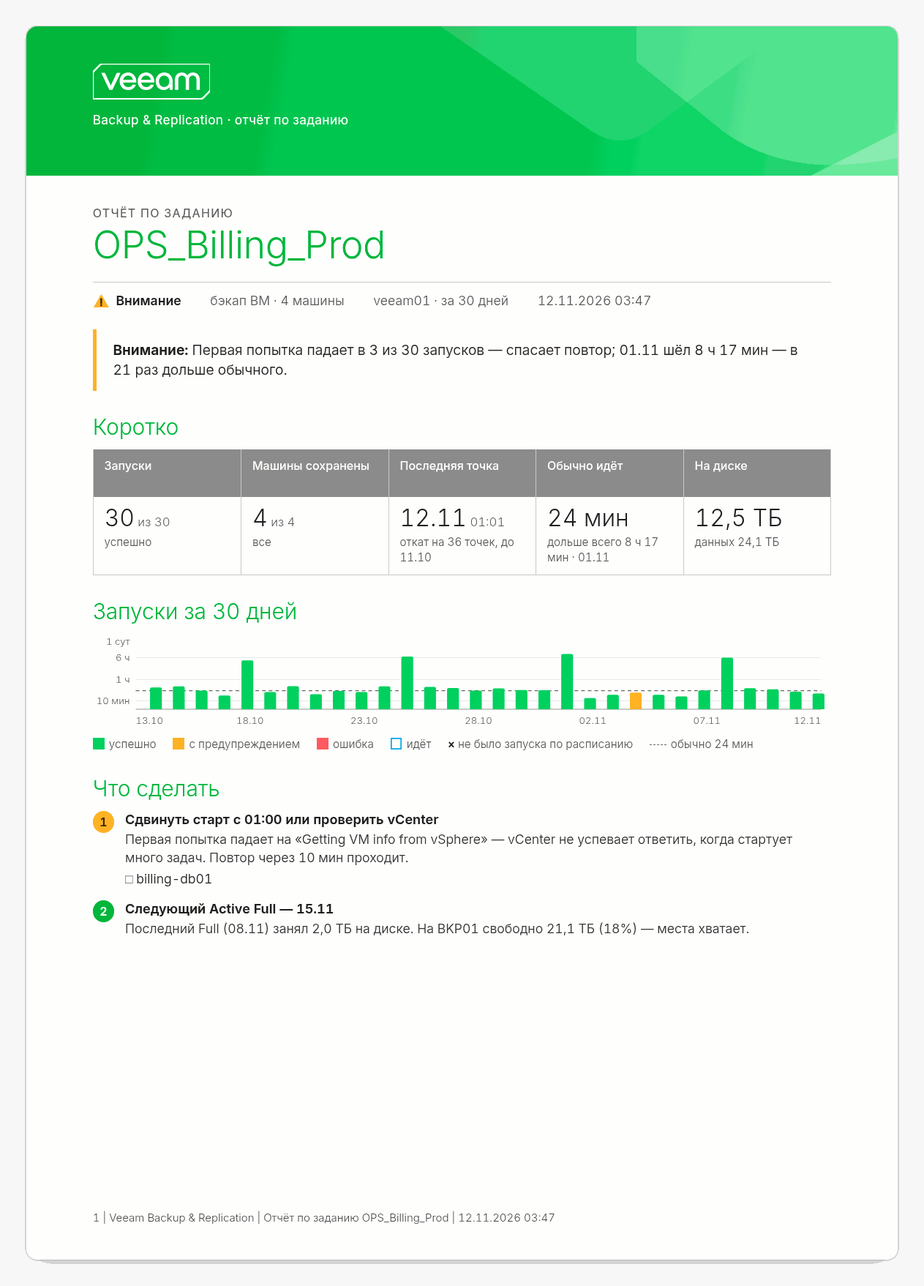
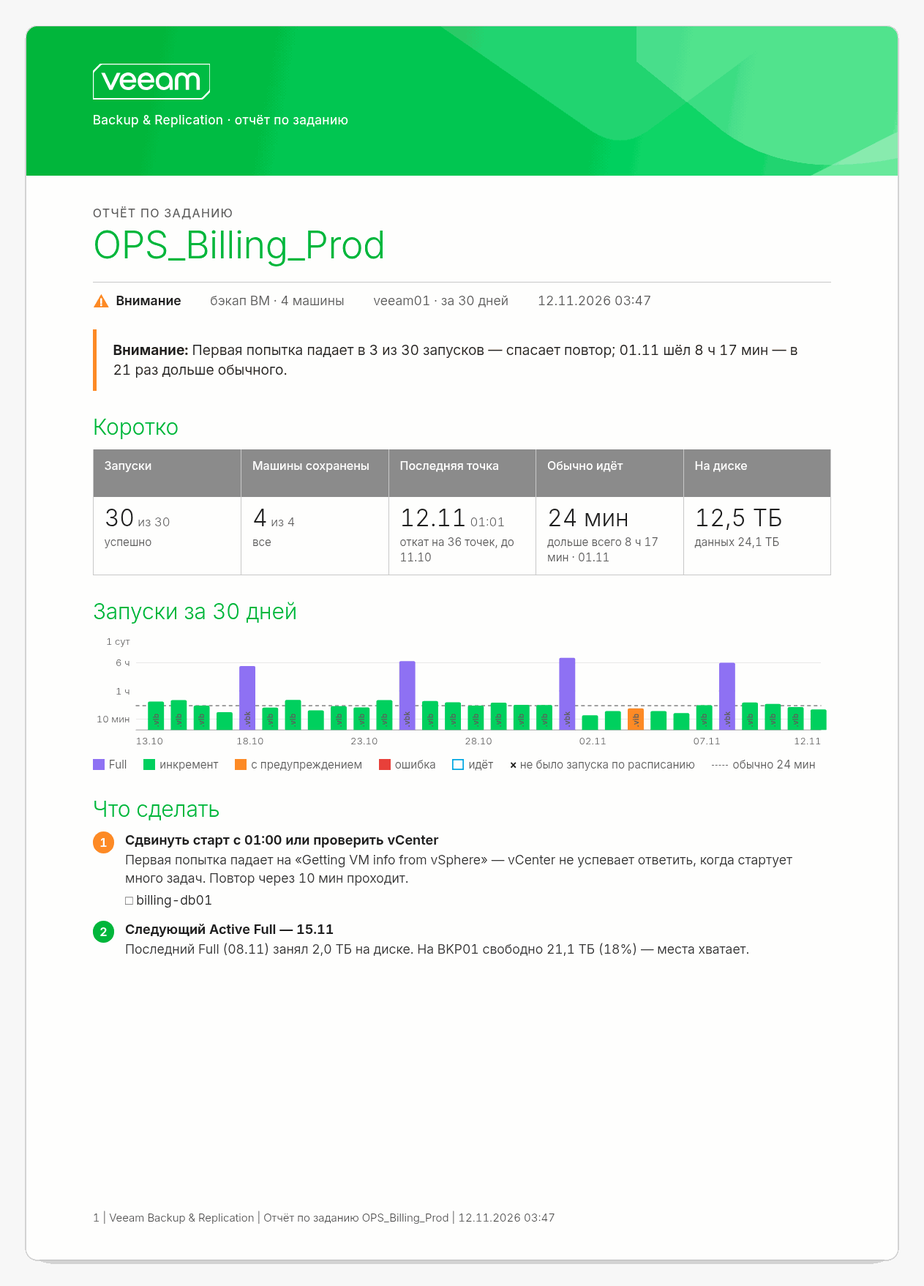
Colour the Job report as the other two, a Full violet and an increment green
The Job report takes the Guide's palette the Points report and the
Repository report already have: attention in its orange, error and
critical in its red, the unknown in a tint of its dark green. A failed
session's head is a quieter red, so that a page of them does not shout.

A good run on «Запуски за 30 дней» and in each machine's history is drawn
as the Guide draws its file: a Full violet with .vbk up the bar, an
increment green with .vib. A run is told a Full by the restore points it
wrote, or, older than retention reaches, by the Full its settings owe
that day to its first run; where neither tells, it stays plain green.

diff --git a/src/estate/job-report-page.ts b/src/estate/job-report-page.ts
@@ -37,14 +37,14 @@ const ERROR_ROWS = 3;
 const CHAIN_ROWS = 6;
 
 /** One family: Veeam's green, and an amber and a coral as strong as it is. */
-const COLOUR = { success: '#00d15f', warning: '#ffb224', failed: '#ff5a5f', none: '#00a7e2', empty: '#e3edeb' } as const;
+const COLOUR = { success: '#00d15f', warning: '#fe8a25', failed: '#e8403a', none: '#00a7e2', empty: '#e3edeb' } as const;
 
 /** A state is its mark and its word, never the colour alone. */
 const MARK: Record<Status, string> = {
   crit: `<svg class="js-mk" viewBox="0 0 16 16"><circle cx="8" cy="8" r="8" fill="${COLOUR.failed}"/><path d="M5.2 5.2l5.6 5.6M10.8 5.2l-5.6 5.6" stroke="#fff" stroke-width="1.8" stroke-linecap="round"/></svg>`,
-  warn: `<svg class="js-mk" viewBox="0 0 16 16"><path d="M8 1.2 15.4 14.2H.6z" fill="${COLOUR.warning}"/><path d="M8 6v4" stroke="#3d2a00" stroke-width="1.7" stroke-linecap="round"/><circle cx="8" cy="12" r="1" fill="#3d2a00"/></svg>`,
-  ok: `<svg class="js-mk" viewBox="0 0 16 16"><circle cx="8" cy="8" r="8" fill="${COLOUR.success}"/><path d="M4.6 8.3l2.3 2.3 4.5-4.9" stroke="#010d35" stroke-width="1.8" fill="none" stroke-linecap="round" stroke-linejoin="round"/></svg>`,
-  unknown: '<svg class="js-mk" viewBox="0 0 16 16"><circle cx="8" cy="8" r="8" fill="#adacaf"/><path d="M5.4 8h5.2" stroke="#fff" stroke-width="1.8" stroke-linecap="round"/></svg>',
+  warn: `<svg class="js-mk" viewBox="0 0 16 16"><path d="M8 1.2 15.4 14.2H.6z" fill="${COLOUR.warning}"/><path d="M8 6v4" stroke="#ffffff" stroke-width="1.7" stroke-linecap="round"/><circle cx="8" cy="12" r="1" fill="#ffffff"/></svg>`,
+  ok: `<svg class="js-mk" viewBox="0 0 16 16"><circle cx="8" cy="8" r="8" fill="${COLOUR.success}"/><path d="M4.6 8.3l2.3 2.3 4.5-4.9" stroke="#fff" stroke-width="1.8" fill="none" stroke-linecap="round" stroke-linejoin="round"/></svg>`,
+  unknown: '<svg class="js-mk" viewBox="0 0 16 16"><circle cx="8" cy="8" r="8" fill="#639c90"/><path d="M5.4 8h5.2" stroke="#fff" stroke-width="1.8" stroke-linecap="round"/></svg>',
 };
 /** How a run ended, as the panel says its last one. */
 const RESULT: Record<Outcome, [Status, string]> = { success: ['ok', 'Успешно'], warning: ['warn', 'С предупреждением'], failed: ['crit', 'Ошибка'], none: ['unknown', 'Идёт'] };
@@ -73,7 +73,11 @@ const summary = (report: JobReport, timezone: string, stamp: string): string => 
   ${numbers(report, timezone, isReplica(report))}
   <h2 class="g-h2">Запуски за ${report.days} дней</h2>
   ${chart(report, timezone)}
-  <div class="js-legend"><span><i style="background:${COLOUR.success}"></i>успешно</span><span><i style="background:${COLOUR.warning}"></i>с предупреждением</span><span><i style="background:${COLOUR.failed}"></i>ошибка</span><span><i class="run"></i>идёт</span><span><b>×</b> не было запуска по расписанию</span>${report.usual ? `<span><i class="dash"></i>обычно ${spanOf(report.usual)}</span>` : ''}</div>
+  <div class="js-legend">${
+    report.runs.some((run) => run.full !== undefined)
+      ? `<span><i style="background:${GUIDE.full}"></i>Full</span><span><i style="background:${COLOUR.success}"></i>инкремент</span>`
+      : `<span><i style="background:${COLOUR.success}"></i>успешно</span>`
+  }<span><i style="background:${COLOUR.warning}"></i>с предупреждением</span><span><i style="background:${COLOUR.failed}"></i>ошибка</span><span><i class="run"></i>идёт</span><span><b>×</b> не было запуска по расписанию</span>${report.usual ? `<span><i class="dash"></i>обычно ${spanOf(report.usual)}</span>` : ''}</div>
   <h2 class="g-h2">Что сделать</h2>
   ${stepsTable(report)}
   ${guideFoot(footOf(report, stamp))}
@@ -172,7 +176,7 @@ const numbers = (report: JobReport, timezone: string, replica: boolean): string 
  */
 const chart = (report: JobReport, timezone: string): string => {
   const W = 1000;
-  const H = 132;
+  const H = 160;
   const left = 58;
   const right = 14;
   const top = 10;
@@ -186,7 +190,7 @@ const chart = (report: JobReport, timezone: string): string => {
   const hi = Math.log(ceiling);
   const y = (minutes: number) => top + (H - top - bottom) * (1 - (Math.log(Math.max(5, Math.min(ceiling, minutes))) - lo) / (hi - lo));
   const base = H - bottom;
-  const barWidth = Math.max(4, Math.min(16, ((W - left - right) / report.days) * 0.6));
+  const barWidth = Math.max(4, Math.min(22, ((W - left - right) / report.days) * 0.7));
   const lines = ticks
     .filter(([minutes]) => minutes <= ceiling)
     .map(([minutes, label]) => `<line x1="${left}" x2="${W - right}" y1="${y(minutes).toFixed(1)}" y2="${y(minutes).toFixed(1)}" class="g"/><text x="${left - 8}" y="${(y(minutes) + 4.5).toFixed(1)}" text-anchor="end">${label}</text>`)
@@ -203,7 +207,16 @@ const chart = (report: JobReport, timezone: string): string => {
     const X = x(run.start) - barWidth / 2;
     const Y = base - height;
     const path = `M${X.toFixed(1)} ${base} V${(Y + r).toFixed(1)} Q${X.toFixed(1)} ${Y.toFixed(1)} ${(X + r).toFixed(1)} ${Y.toFixed(1)} H${(X + barWidth - r).toFixed(1)} Q${(X + barWidth).toFixed(1)} ${Y.toFixed(1)} ${(X + barWidth).toFixed(1)} ${(Y + r).toFixed(1)} V${base} Z`;
-    return `<path d="${path}" ${going ? `fill="#fff" stroke="${COLOUR.none}" stroke-width="1.6"` : `fill="${COLOUR[run.result] ?? COLOUR.none}"`}/>`;
+    // A good run in the colour the Guide draws its file in: a Full violet (.vbk), an increment green (.vib). A warning or a failure says so instead.
+    const fill = run.result === 'success' && run.full ? GUIDE.full : COLOUR[run.result] ?? COLOUR.none;
+    const shape = `<path d="${path}" ${going ? `fill="#fff" stroke="${COLOUR.none}" stroke-width="1.6"` : `fill="${fill}"`}/>`;
+    // Its file written up the bar, .vbk or .vib, as the Guide writes it in the box, where the bar is tall enough to hold it.
+    const word = run.full === undefined ? '' : run.full ? '.vbk' : '.vib';
+    const fits = word && !going && height >= word.length * 5.8 + 6 && barWidth >= 11;
+    const ink = fill === COLOUR.success ? '#003d30' : '#fff';
+    return fits
+      ? `${shape}<text class="k" transform="translate(${(X + barWidth / 2 + 3.6).toFixed(1)} ${(base - 4).toFixed(1)}) rotate(-90)" fill="${ink}">${word}</text>`
+      : shape;
   };
   const missed = report.missed.map((at) => `<text x="${x(at).toFixed(1)}" y="${base - 5}" text-anchor="middle" class="m">×</text>`).join('');
   const empty = report.runs.length ? '' : `<text x="${W / 2}" y="${H / 2}" text-anchor="middle">За ${report.days} дней запусков не было</text>`;
@@ -260,7 +273,7 @@ const machinesTable = (report: JobReport, timezone: string): string => {
   const rows = shown
     .map(
       (machine) =>
-        `<tr${machine.error ? ' class="js-hasx"' : ''}><td><div class="js-name">${machineMark(machine)}<div><span>${breakable(shortName(machine.name))}</span></div></div></td><td><div class="js-hist${machine.history.length > DENSE_RUNS ? ' dense' : ''}">${machine.history.map((outcome) => `<i style="background:${outcome === 'none' ? COLOUR.empty : COLOUR[outcome]}"></i>`).join('')}</div></td>${machine.unread ? UNREAD : saves(machine, timezone)}</tr>${
+        `<tr${machine.error ? ' class="js-hasx"' : ''}><td><div class="js-name">${machineMark(machine)}<div><span>${breakable(shortName(machine.name))}</span></div></div></td><td><div class="js-hist${machine.history.length > DENSE_RUNS ? ' dense' : ''}">${machine.history.map((outcome, column) => `<i style="background:${outcome === 'none' ? COLOUR.empty : outcome === 'success' && report.history.fulls?.[column] ? GUIDE.full : COLOUR[outcome]}"></i>`).join('')}</div></td>${machine.unread ? UNREAD : saves(machine, timezone)}</tr>${
           // Under the machine, across the row: the name's column is too narrow to hold what Veeam said.
           machine.error ? `<tr class="js-x"><td colspan="4"><div class="js-err">${esc(machine.error)}${machine.errorTone === 'healed' ? ' · повтор помог' : ''}</div></td></tr>` : ''
         }`,
@@ -327,14 +340,14 @@ const STYLE = `
 .nw { white-space: nowrap; } .r { text-align: right; }
 .js-mk { width: 3.6mm; height: 3.6mm; flex: none; vertical-align: -0.6mm; }
 .g-state .js-mk { width: 4mm; height: 4mm; }
-.js-bad { color: #e5484d; } .js-dim { color: ${GUIDE.muted}; }
+.js-bad { color: #e8403a; } .js-dim { color: ${GUIDE.muted}; }
 .js-partial { color: ${GUIDE.muted}; font-size: 7.8pt; margin-top: 1.4mm; padding-left: 4.9mm; }
 
 .js-tiles { display: grid; grid-template-columns: repeat(5, minmax(0, 1fr)); border: 0.25mm solid ${GUIDE.rule}; border-top: none; }
 .js-tile { min-width: 0; border-left: 0.25mm solid ${GUIDE.rule}; display: flex; flex-direction: column; } .js-tile:first-child { border-left: none; }
 .js-tk { background: ${GUIDE.head}; color: #fff; font-weight: 500; font-size: 8pt; padding: 1.9mm 2.6mm; min-height: 11.5mm; box-sizing: border-box; }
 .js-tv { font-size: 16pt; font-weight: 300; line-height: 1.15; white-space: nowrap; padding: 2mm 2.6mm 0; } .js-tv small { font-size: 8.4pt; color: ${GUIDE.muted}; }
-.js-tile.bad .js-tv { color: #e5484d; }
+.js-tile.bad .js-tv { color: #e8403a; }
 .js-td { font-size: 7.6pt; color: ${GUIDE.muted}; padding: 0.4mm 2.6mm 2.2mm; }
 
 .js-chart { width: 100%; height: auto; display: block; font-family: 'Inter Variable', sans-serif; }
@@ -342,6 +355,7 @@ const STYLE = `
 .js-chart .g { stroke: #e6e6e6; stroke-width: 1; } .js-chart .a { stroke: #9a9a9a; stroke-width: 1; }
 .js-chart .u { stroke: #6b6b6b; stroke-width: 1.2; stroke-dasharray: 5 4; }
 .js-chart .m { font-size: 16px; font-weight: 650; fill: ${GUIDE.ink}; }
+.js-chart .k { font-size: 10px; font-weight: 600; letter-spacing: 0.02em; }
 .js-legend { display: flex; flex-wrap: wrap; gap: 0.6mm 4mm; font-size: 7.6pt; color: ${GUIDE.muted}; margin-top: 1.2mm; }
 .js-legend span { white-space: nowrap; }
 .js-legend i { display: inline-block; width: 2.8mm; height: 2.8mm; margin-right: 1.1mm; vertical-align: -0.4mm; }
@@ -352,7 +366,7 @@ const STYLE = `
 .js-steps { display: flex; flex-direction: column; gap: 2.6mm; }
 .js-step { display: flex; gap: 2.6mm; break-inside: avoid; }
 .js-step .n { flex: none; width: 5.2mm; height: 5.2mm; border-radius: 50%; background: ${GUIDE.green}; color: #fff; font-weight: 650; font-size: 8pt; display: flex; align-items: center; justify-content: center; margin-top: 0.2mm; }
-.js-step.crit .n { background: ${COLOUR.failed}; } .js-step.warn .n { background: ${COLOUR.warning}; color: #3d2a00; }
+.js-step.crit .n { background: ${COLOUR.failed}; } .js-step.warn .n { background: ${COLOUR.warning}; color: #ffffff; }
 .js-step b { font-weight: 650; display: block; font-size: 9pt; }
 .js-step p { margin: 0.4mm 0 0; color: #333; }
 .js-tags { display: flex; flex-wrap: wrap; gap: 1mm 3mm; margin-top: 0.8mm; } .js-tags span::before { content: '□ '; color: ${GUIDE.muted}; }

diff --git a/src/estate/job-report.ts b/src/estate/job-report.ts
@@ -3,7 +3,7 @@ import { durationOf, fromServerClock, instantOf, Job } from '../veeam/estate';
 import { linesOf, saidOf } from '../veeam/session-text';
 import { VeeamBackupFile, VeeamJob, VeeamRepositoryState, VeeamTaskSession } from '../veeam/types';
 import { PendingEvidence } from './evidence';
-import { describeFulls, FullSchedule, fullSchedulesOf, nextFullDay } from './full-schedule';
+import { describeFulls, FullSchedule, fullSchedulesOf, isFullDay, nextFullDay } from './full-schedule';
 import { JobHistory } from './job-reads';
 import { JobJudgement, Severity, Trouble, Verdict, verdictWords } from './job-standing';
 import { RunSize, runSizesOf, sizesOf } from './points-sizes';
@@ -74,6 +74,12 @@ export interface JobRun {
   /** Machines saved, of those the run went through; undefined when the tasks were not read. */
   saved?: number;
   machines?: number;
+  /**
+   * Whether it wrote a Full: as its retained points say, or, for a run older
+   * than they reach, as the settings owe one that day to its first run.
+   * Absent where neither tells.
+   */
+  full?: boolean;
 }
 
 /** One machine over the period. */
@@ -169,7 +175,14 @@ export interface JobReport {
   /** Scheduled starts no run came for. */
   missed: number[];
   /** The runs the machines' history is about: their first and last start, and how many. */
-  history: { from?: number; to?: number; runs: number; byDay: boolean };
+  history: {
+    from?: number;
+    to?: number;
+    runs: number;
+    byDay: boolean;
+    /** A column a Full: a run, or a day with a run, that wrote one; absent where it is not known. As the machines' history has its columns. */
+    fulls?: Array<boolean | undefined>;
+  };
   machines: ReportMachine[];
   errors: ErrorGroup[];
   /** Newest first. */
@@ -401,6 +414,21 @@ export const jobReportOf = (reading: JobReading, timezone: string): JobReport =>
   const nextFull = fullSchedules?.length ? nextFullDay(fullSchedules, at, timezone) : undefined;
   const lastFull = sizesOf(reading.files, retained)?.full;
 
+  // A Full or an increment, for the month's chart: the retained points written while it ran, else the Full the settings owe its day — once, to the day's first run.
+  const firstOfDay = new Set<number>();
+  const daysSeen = new Set<number>();
+  for (const run of runs) {
+    const day = dayIn(run.start, timezone);
+    if (!daysSeen.has(day)) firstOfDay.add(run.start);
+    daysSeen.add(day);
+  }
+  const fullOf = (start: number, end: number | undefined): boolean | undefined => {
+    const written = retained.filter((point) => point.full !== undefined && point.at >= start - MINUTE && point.at <= (end ?? at) + MINUTE);
+    if (written.length) return written.some((point) => point.full);
+    if (!fullSchedules?.length) return undefined;
+    return firstOfDay.has(start) && isFullDay(fullSchedules, dayIn(start, timezone));
+  };
+
   const repositoryName = reading.repository?.name;
   const repository = reading.repository && repositoryName
     ? {
@@ -435,9 +463,19 @@ export const jobReportOf = (reading: JobReading, timezone: string): JobReport =>
       pieces,
       minutes,
       ...(read && done.size ? { saved: [...done.values()].filter((task) => saved(outcomeOf(task.result?.result))).length, machines: done.size } : {}),
+      ...((full) => (full === undefined ? {} : { full }))(fullOf(start, end)),
     })),
     missed,
-    history: { from: withTasks[0]?.start, to: withTasks.at(-1)?.start, runs: withTasks.length, byDay },
+    history: {
+      from: withTasks[0]?.start,
+      to: withTasks.at(-1)?.start,
+      runs: withTasks.length,
+      byDay,
+      fulls: columns.map((group) => {
+        const kinds = group.map((run) => fullOf(run.start, run.end));
+        return kinds.some((kind) => kind === true) ? true : kinds.every((kind) => kind === undefined) ? undefined : false;
+      }),
+    },
     machines,
     errors,
     chain,

diff --git a/src/estate/points-report-page.ts b/src/estate/points-report-page.ts
@@ -46,7 +46,7 @@ export const chunks = <T>(items: T[], size: number): T[][] =>
 const MONTHS = ['январь', 'февраль', 'март', 'апрель', 'май', 'июнь', 'июль', 'август', 'сентябрь', 'октябрь', 'ноябрь', 'декабрь'];
 
 /** The page's colours, as drawn. */
-const DOT = { crit: '#FF5A5F', warn: '#FFB224', ok: '#00D15F', unknown: '#ADACAF' } as const;
+const DOT = { crit: '#E8403A', warn: '#FE8A25', ok: '#00D15F', unknown: '#639C90' } as const;
 
 /** A number drawn smaller the longer it is: «сб 24.10, 22:00» wrapped at the size of «2,4 ТБ». */
 const valueSize = (value: string): string => (value.length <= 11 ? '' : value.length <= 15 ? ' m' : ' s');
@@ -235,7 +235,7 @@ const STYLE = `
 .job { margin: 0; color: ${GUIDE.green}; font-weight: 300; font-size: 26pt; line-height: 1.12; letter-spacing: -0.01em; overflow-wrap: anywhere; }
 .dot { width: 3.4mm; height: 3.4mm; border-radius: 50%; display: inline-block; flex: none; }
 .verdict { font-weight: 600; }
-.bad { color: #e5484d; }
+.bad { color: #e8403a; }
 .meta { color: ${GUIDE.muted}; }
 .meta.small { font-size: 8pt; margin-top: 1.4mm; }
 
@@ -257,7 +257,7 @@ h2 { margin: 0; }
 .row { display: grid; grid-template-columns: 42mm repeat(${CALENDAR_DAYS}, minmax(0, 1fr)) 9mm; gap: 0.45mm; align-items: center; break-inside: avoid; }
 .mon { font-size: 7.4pt; font-weight: 600; color: ${GUIDE.ink}; border-bottom: 0.25mm solid ${GUIDE.rule}; padding-bottom: 0.6mm; white-space: nowrap; overflow: hidden; }
 .hd { font-size: 6.4pt; color: ${GUIDE.muted}; text-align: center; line-height: 1.3; }
-.hd.we { color: #9a9a9a; } .hd.fd { color: ${GUIDE.ink}; font-weight: 650; } .hd.miss { color: #e5484d; font-weight: 650; }
+.hd.we { color: #9a9a9a; } .hd.fd { color: ${GUIDE.ink}; font-weight: 650; } .hd.miss { color: #e8403a; font-weight: 650; }
 .nm { font-size: 7.8pt; white-space: nowrap; overflow: hidden; text-overflow: ellipsis; padding-right: 1mm; }
 .cnt { font-size: 8pt; font-weight: 650; text-align: right; }
 .none { color: ${GUIDE.muted}; padding: 1mm 0; }
@@ -273,19 +273,19 @@ h2 { margin: 0; }
 .more { font-size: 8pt; color: ${GUIDE.muted}; }
 .err { margin: 0 0 2mm; break-inside: avoid; }
 .err b { font-weight: 650; }
-.errt { display: block; color: #c23a40; margin-top: 0.4mm; overflow-wrap: anywhere; }
+.errt { display: block; color: #e8403a; margin-top: 0.4mm; overflow-wrap: anywhere; }
 .act { margin: 0 0 2.4mm; break-inside: avoid; }
 .act b { display: block; font-weight: 650; font-size: 9pt; }
 .act .ad { display: block; color: #333; }
 .act.calm { color: ${GUIDE.muted}; }
-.imp { margin-left: 1.2mm; font-weight: 650; color: #e5484d; }
+.imp { margin-left: 1.2mm; font-weight: 650; color: #e8403a; }
 .note { margin-left: 1.2mm; color: ${GUIDE.muted}; font-weight: 600; }
 .track { position: relative; height: 3.4mm; background: ${GUIDE.tealMist}; overflow: hidden; }
 .track .rm { position: absolute; left: 0; top: 0; bottom: 0; background: ${GUIDE.tealPale}; }
 .track .ca { position: absolute; top: 0; bottom: 0; background: ${GUIDE.fullOldest}; box-shadow: inset 0.3mm 0 0 #fff; }
 .track .cc { position: absolute; top: 0; bottom: 0; background: ${GUIDE.fullOlder}; box-shadow: inset 0.3mm 0 0 #fff; }
 .track .cb { position: absolute; top: 0; bottom: 0; background: ${GUIDE.full}; box-shadow: inset 0.3mm 0 0 #fff; }
-.track .tk { position: absolute; top: 0; bottom: 0; width: 0.6mm; background: #e5484d; }
+.track .tk { position: absolute; top: 0; bottom: 0; width: 0.6mm; background: #e8403a; }
 .axis { display: flex; justify-content: space-between; font-size: 7.6pt; color: ${GUIDE.muted}; margin-top: 0.6mm; }
 .ct { width: 100%; border-collapse: collapse; margin-top: 2.4mm; }
 .ct th { background: ${GUIDE.head}; color: #fff; font-weight: 500; font-size: 8pt; text-align: left; padding: 1.9mm 2.6mm; border: 0.25mm solid ${GUIDE.head}; }

diff --git a/src/estate/guide-look.ts b/src/estate/guide-look.ts
@@ -21,7 +21,7 @@ export const VEEAM_LOGO_WHITE = VEEAM_LOGO.replace('fill="#00D15F"', 'fill="none
  * A restore point as the Guide draws its files: a Full (.vbk) violet, an increment (.vib) green, and the older Fulls of a chain in lighter violets.
  */
 export const GUIDE = {
-  green: '#00b336', bright: '#00d15f', ink: '#1f1f1f', muted: '#5f5f5f', rule: '#c8c8c8', head: '#8c8c8c', warning: '#ffb224', failed: '#e8403a',
+  green: '#00b336', bright: '#00d15f', ink: '#1f1f1f', muted: '#5f5f5f', rule: '#c8c8c8', head: '#8c8c8c', warning: '#fe8a25', failed: '#e8403a',
   full: '#8e71f4', increment: '#00d15f', fullOlder: '#b3a0f7', fullOldest: '#d9cffb',
   // The Guide's dark green and its tints, for what is neutral: past, empty, not known. Its link blue for what is going on now.
   dark: '#005f4b', teal: '#639c90', tealSoft: '#a9c9c2', tealPale: '#c7dcd7', tealMist: '#e3edeb',
@@ -72,9 +72,9 @@ body { margin: 0; background: #fff; font-family: 'Inter Variable', 'Segoe UI', s
 .g-table td { padding: 1.7mm 2.6mm; border: 0.25mm solid ${GUIDE.rule}; vertical-align: top; }
 .g-table tr { break-inside: avoid; }
 .g-spec td:first-child { width: 34%; font-weight: 600; }
-.g-note { margin-top: 4.5mm; padding: 2.8mm 4mm; border-left: 0.9mm solid ${GUIDE.warning}; background: #fff8ea; font-size: 9.6pt; line-height: 1.38; }
-.g-note.crit { border-left-color: ${GUIDE.failed}; background: #fff1f1; }
-.g-note.ok { border-left-color: ${GUIDE.green}; background: #effaf3; }
+.g-note { margin-top: 4.5mm; padding: 2.8mm 4mm; border-left: 0.9mm solid ${GUIDE.warning}; background: #fff3e8; font-size: 9.6pt; line-height: 1.38; }
+.g-note.crit { border-left-color: ${GUIDE.failed}; background: #fdeceb; }
+.g-note.ok { border-left-color: ${GUIDE.green}; background: #e6faef; }
 .g-note.unknown { border-left-color: #adacaf; background: #f5f6f7; }
 .g-note b { font-weight: 650; }
 `;

diff --git a/src/estate/session-report-page.ts b/src/estate/session-report-page.ts
@@ -143,9 +143,10 @@ html { -webkit-print-color-adjust: exact; print-color-adjust: exact; }
 .vr .vh-s { text-align: right; white-space: nowrap; }
 .vr .vh-d { font-size: 7.5pt; font-weight: 400; margin-top: 0.4mm; color: #505861; }
 .vr .vh.ok td { background: #00d15f; border-bottom-color: #00d15f; color: #fff; }
-.vr .vh.bad td { background: #c4373d; border-bottom-color: #c4373d; color: #fff; }
-.vr .vh.warn td { background: #fff7e3; border-bottom-color: #ffe0a3; } .vr .vh.warn .vh-s { color: #a66800; }
-.vr .vh.run td { background: #eef3ff; } .vr .vh.run .vh-s { color: #3700ff; }
+/* A failure in a red a shade quieter than the marks', so that a page of them does not shout over the rest */
+.vr .vh.bad td { background: #dc5b55; border-bottom-color: #dc5b55; color: #fff; }
+.vr .vh.warn td { background: #fff3e8; border-bottom-color: #ffd1a8; } .vr .vh.warn .vh-s { color: #a04b00; }
+.vr .vh.run td { background: #e6f5fc; border-bottom-color: #b5e2f5; } .vr .vh.run .vh-s { color: #0083b3; }
 .vr .vh.ok .vh-d, .vr .vh.bad .vh-d { color: inherit; opacity: 0.92; }
 .vr .vi { table-layout: auto; }
 .vr .vi col.c1 { width: 46mm; }
@@ -164,8 +165,8 @@ html { -webkit-print-color-adjust: exact; print-color-adjust: exact; }
 .vr .note { font-size: 6.8pt; word-break: break-word; color: #505861; }
 .vr .dim { color: #6b727c; }
 .vr .st { font-weight: 650; }
-.vr .st.ok { color: #00893e; }
-.vr .st.warn { color: #c77d00; }
-.vr .st.bad { color: #e63946; }
-.vr .st.run { color: #3700ff; }
+.vr .st.ok { color: #05b151; }
+.vr .st.warn { color: #a04b00; }
+.vr .st.bad { color: #e8403a; }
+.vr .st.run { color: #00a7e2; }
 `;

diff --git a/CHANGELOG.md b/CHANGELOG.md
@@ -30,6 +30,7 @@ The bot speaks Russian, so the quotes of its messages and buttons below stay in 
 
 - The three PDF reports are drawn the way Veeam's own User Guide is. The Job report and the Points report are A4 pages upright: the first under a green band with Veeam's logo in white, the name in a light green under a thin rule, what is wrong in a box with a coloured bar like the Guide's «IMPORTANT», headings in the Guide's green, tables with a grey head, and on every page after the first a line at its foot with its number, the report and when it was read. The Job report's settings, last run, repository and Fulls are a table «Настройки задания» on its second page; the Points report's machines go on after the first page, each page under the days' header of its own. The Repository report stays landscape for its 24-hour charts, under the same green, headings, tables and foot line.
 - The reports are coloured from the Guide: a Full violet and an increment green, as the Guide draws a `.vbk` and a `.vib`; «Внимание» (attention) in its orange, «Критично» (critical) and a failed run in its red; what is stored, and the line «сейчас» (now), in the dark green of Veeam's console; what is past, empty or unknown in the tints of that dark green; what is running now and the links «стр. N» in its link blue. «Нагрузка по часам» (load by the hour) runs from a pale mint to the dark green, its busiest hour ringed in violet; «Где тормозит» (where it slows down) is the dark-green scale with Target, the repository itself, in orange. A day a scheduled Full was not taken is hatched red on the points calendar, not ringed.
+- The Job report in the same colours as the other two: «Внимание» (attention) in the Guide's orange, «Ошибка» (error) and «Критично» (critical) in its red, the unknown in the dark green's tint. On «Запуски за 30 дней» (runs over 30 days) and in each machine's history a good run is drawn as the Guide draws its file: a Full violet, an increment green, the bar labelled `.vbk` or `.vib` where it is tall enough. A run is told a Full by the restore points it wrote, or, older than they reach, by the Full the settings owe its day. A failed session's head is a quieter red.
 - The Repository report's cover lists at most four things to do first and names the rest in a line under them; «Кто к чему подключён» (which server attaches what) puts its two panels on a page of their own when the table leaves no room for them.
 - The README shows the bot as it is now: the alerts and the live topics, a job's card with its report button, the menu, and the first page of each of the three PDF reports, in place of the `/points` message they replaced. `npm run screenshots` draws them again from the invented estate in `scripts/screenshots/`, with the bot's own code, so they no longer have to be made by hand.
 - The three PDF reports — a job, its points, the repositories — are set in one scale of type with darker small print, and print what they cut short: every step of «Что сделать» (what to do) with its whole detail, and a machine's error at up to four lines on the points page. The verdict at the head of each, and the head of every session, is a card in the result's colour with its mark on it: white on Veeam's green for a success and on a deep red for an error, dark words on a pale amber for a warning. A session's block is kept on one page.
